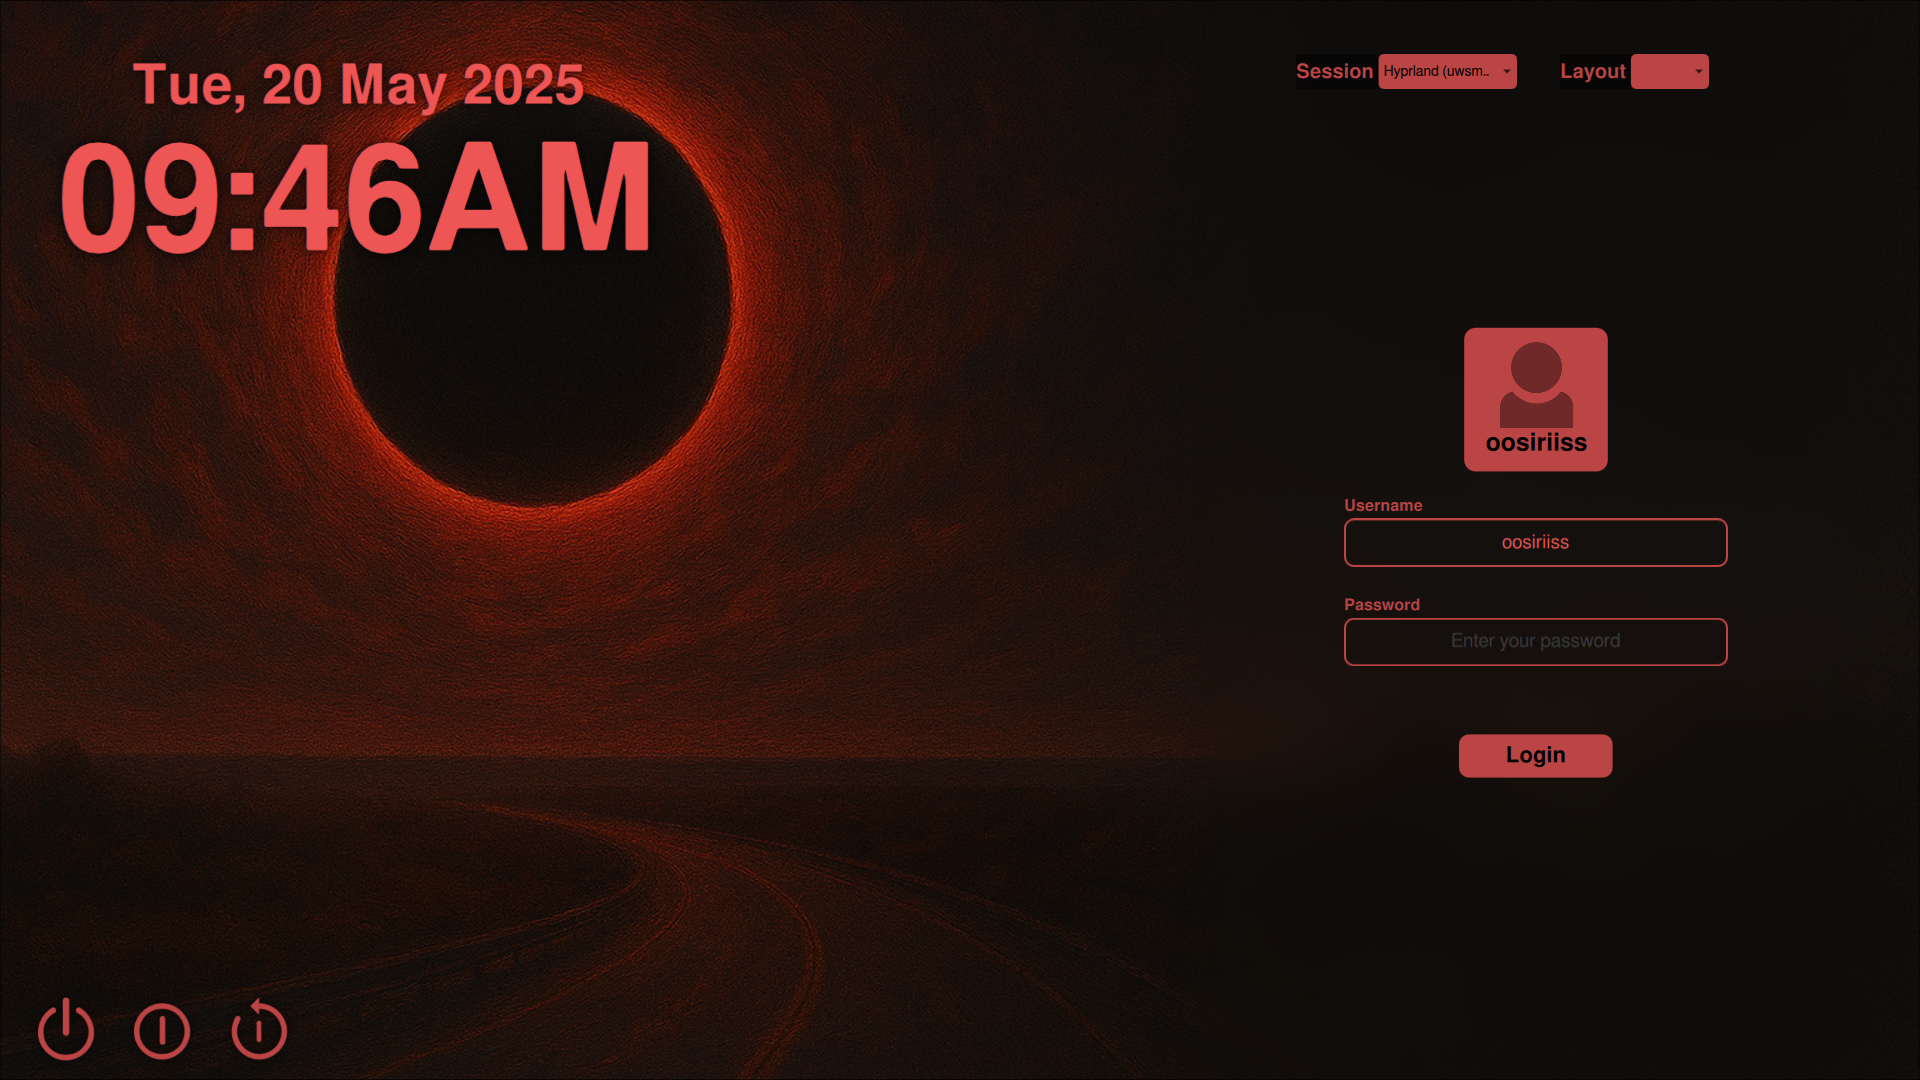
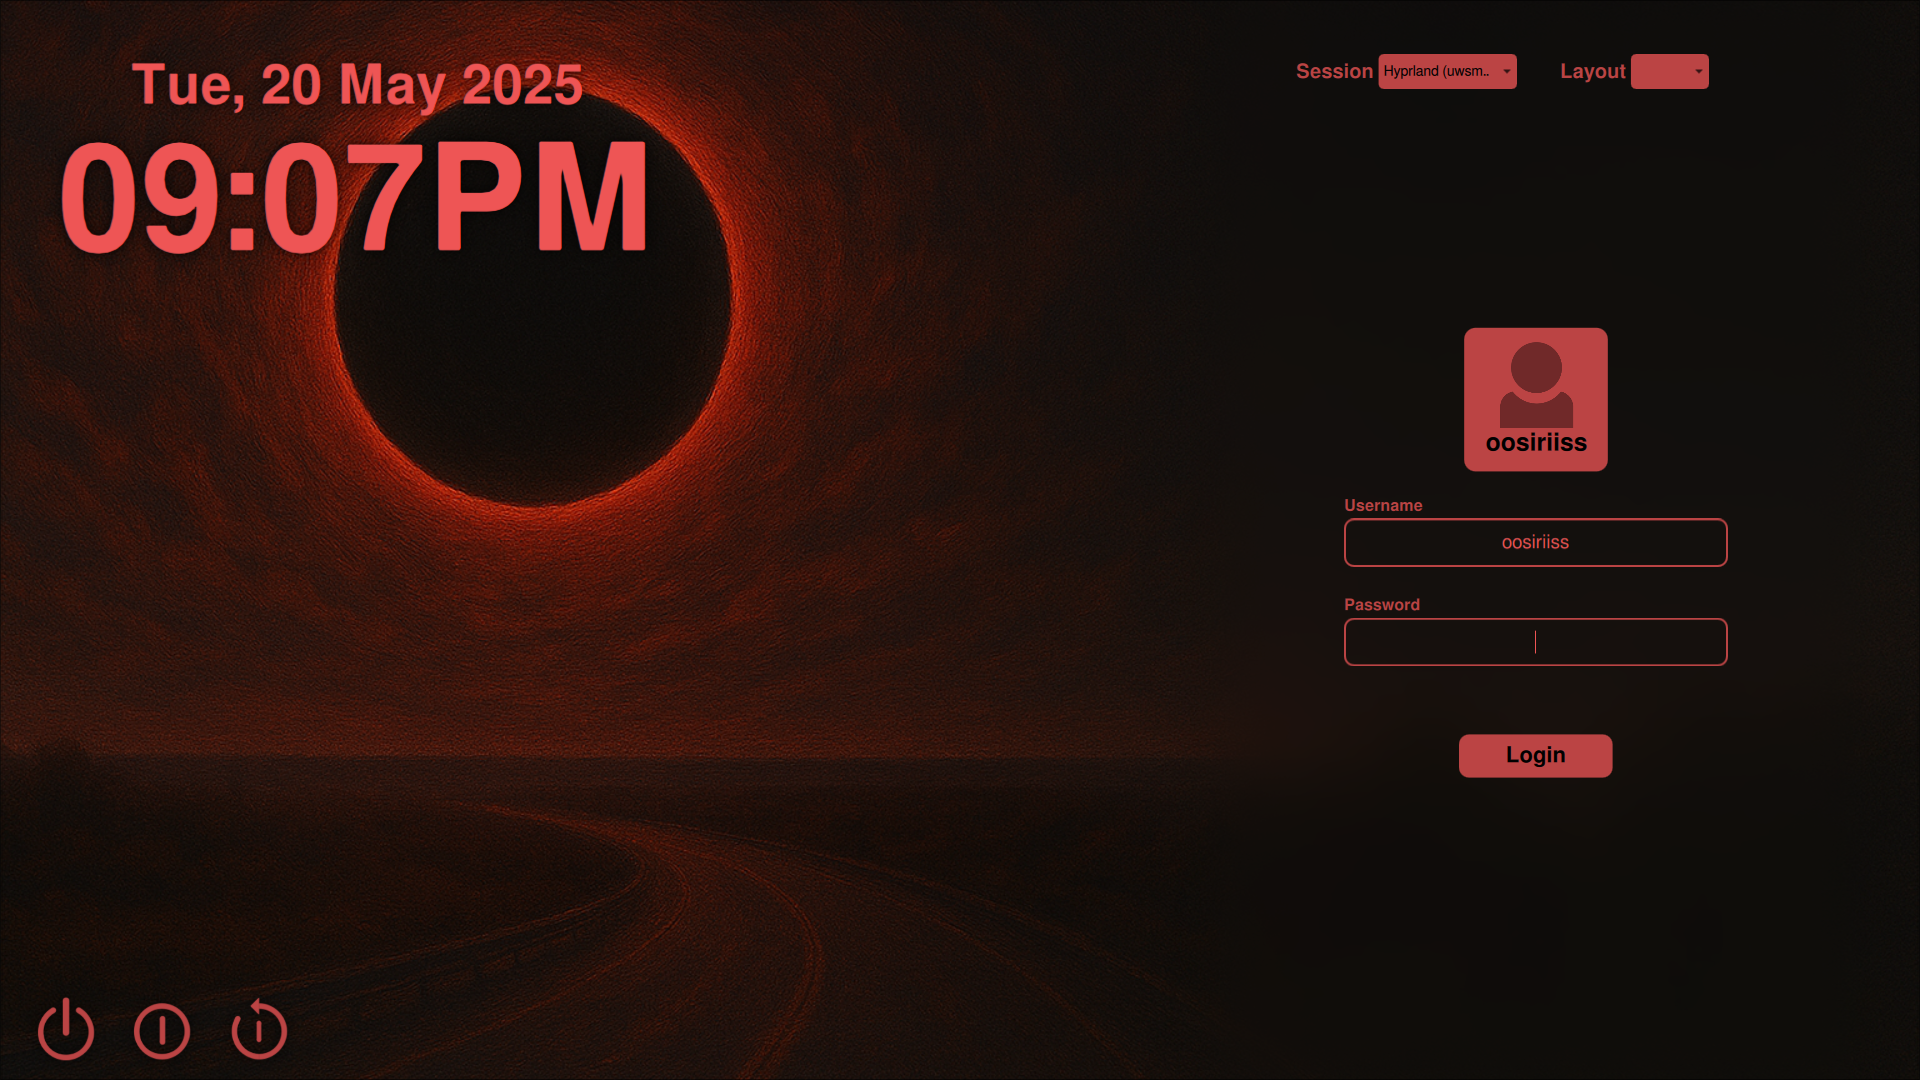
fix dropdown menu focus

Changed region(s): [[0.125, 0.1222, 0.3438, 0.2444], [0.0625, 0.0611, 0.3125, 0.0917], [0.75, 0.5806, 0.8438, 0.6111]]

diff --git a/components/DropDownMenu.qml b/components/DropDownMenu.qml
@@ -7,6 +7,7 @@ import QtQuick.Effects
 
 
 Row {
+   id: root
 
    property alias labelText: label.text
 
@@ -16,17 +17,17 @@ Row {
 
    spacing: 5
 
+    onFocusChanged: {
+        if (root.focus) {
+            comboBox.forceActiveFocus()
+        }
+    }
 
    AppStyle {
        id: style
    }
 
 
-    Rectangle {
-       anchors.fill:parent
-
-      color: "#80000000"
-    }
 
    Text {
       id: label
@@ -51,6 +52,7 @@ ComboBox {
 
 
     Keys.onPressed: function (event) {
+
         if (comboBox.focus && comboBox.activated) {
             if (event.key == Qt.Key_Return || event.key == Qt.Key_Enter)
                 comboBox.currentIndex = comboBox.hoveredIndex;
@@ -59,8 +61,7 @@ ComboBox {
             else if ((event.key == Qt.Key_W || event.key == Qt.Key_Up) && comboBox.hoveredIndex > 0)
                 comboBox.hoveredIndex -= 1;
         }
-    }
-
+      }
 
 
     contentItem: Rectangle {
@@ -95,7 +96,7 @@ ComboBox {
         width: comboBox.width
 
         border.width: (comboBox.hovered || comboBox.focus) ? 3 : 0
-        border.color: (comboBox.hovered || comboBox.focus) ? style.primaryColor : "black"
+        border.color: (comboBox.hovered || comboBox.focus) ? style.primaryColor : "transparent"
     }
 
     popup.y: comboBox.height

diff --git a/Main.qml b/Main.qml
@@ -270,7 +270,6 @@ Rectangle {
         //width: login_box.width
         anchors.top: parent.top
         anchors.topMargin: parent.height * 0.05
-        anchors.horizontalCenter: login_box.horizontalCenter
 
 	anchors.left: login_box.left
 	anchors.right: login_box.right
